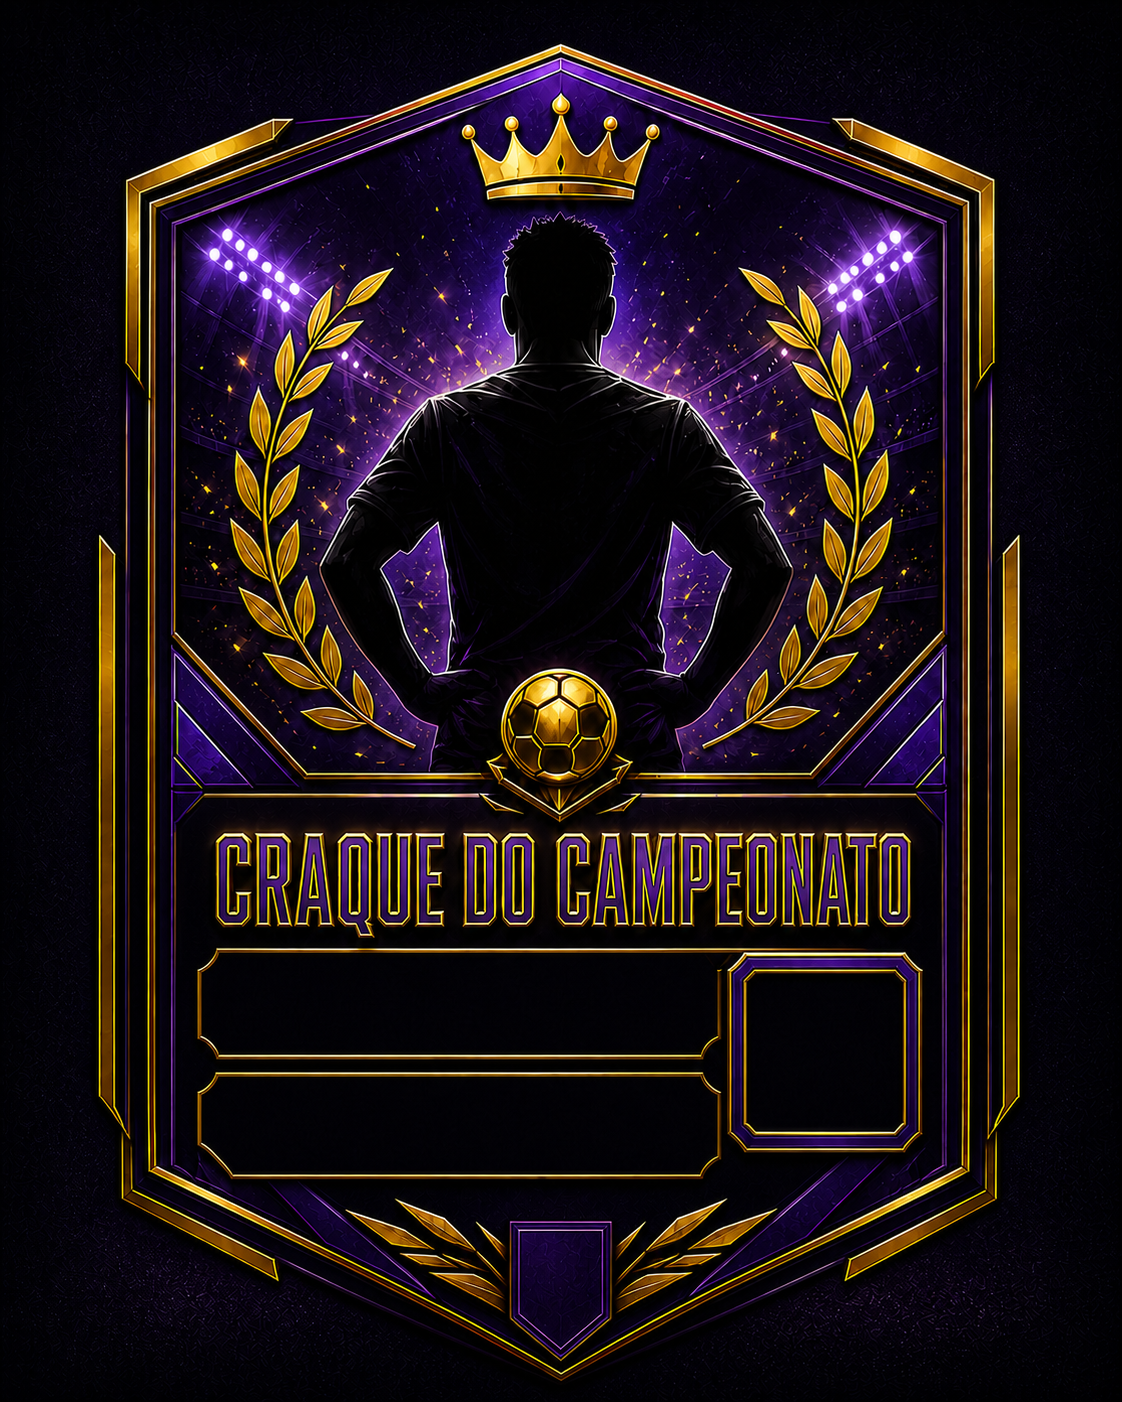
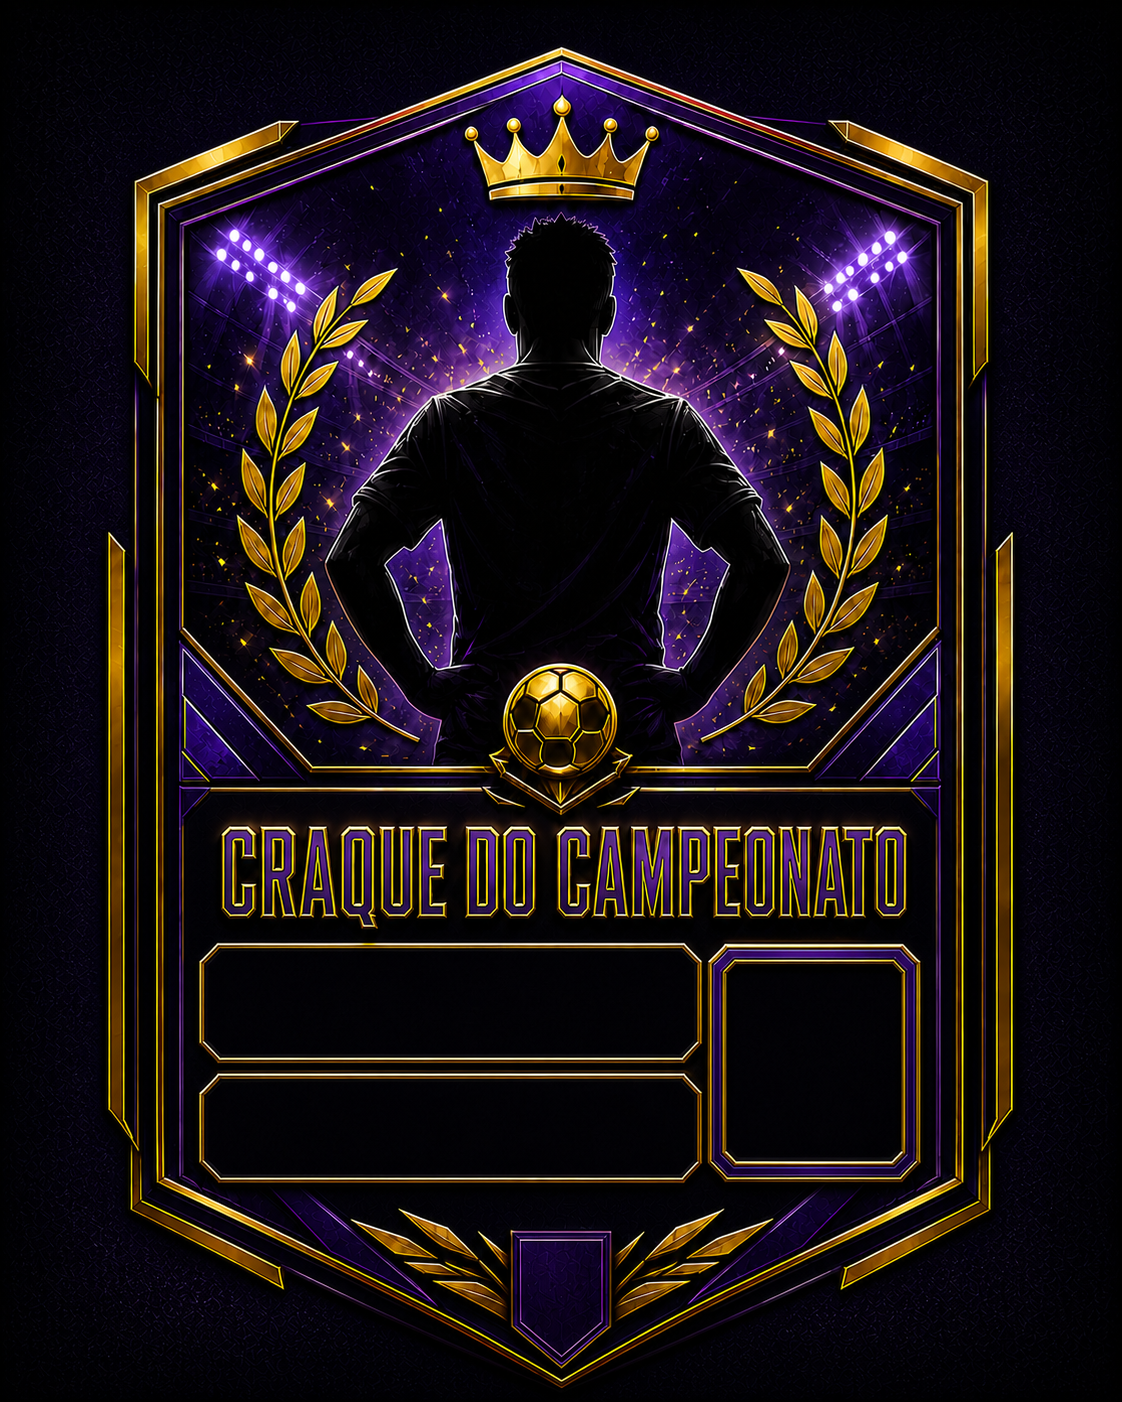
Refine award templates and themed QR codes

Changed region(s): [[0.0624, 0.0307, 0.9358, 1.0]]

diff --git a/components/admin/award-card-studio.tsx b/components/admin/award-card-studio.tsx
@@ -15,6 +15,15 @@ function fitText(ctx: CanvasRenderingContext2D, text: string, maxWidth: number, 
   } while (size > 30 && ctx.measureText(text).width > maxWidth)
 }
 
+function metallicGradient(ctx: CanvasRenderingContext2D, y: number, size: number, top: string, middle: string, bottom: string) {
+  const gradient = ctx.createLinearGradient(0, y - size * 0.55, 0, y + size * 0.55)
+  gradient.addColorStop(0, top)
+  gradient.addColorStop(0.42, middle)
+  gradient.addColorStop(0.58, "#ffffff")
+  gradient.addColorStop(1, bottom)
+  return gradient
+}
+
 export function AwardCardStudio() {
   const [category, setCategory] = useState<AwardKey>("artilheiro")
   const [name, setName] = useState("Indio")
@@ -26,8 +35,8 @@ export function AwardCardStudio() {
   useEffect(() => { setTournamentUrl(`${window.location.origin}/dashboard/tournaments/exemplo`) }, [])
   useEffect(() => {
     if (!tournamentUrl.trim()) return setQrPreview("")
-    void QRCode.toDataURL(tournamentUrl.trim(), { margin: 1, width: 256, color: { dark: "#050505", light: award.qrLight } }).then(setQrPreview)
-  }, [award.qrLight, tournamentUrl])
+    void QRCode.toDataURL(tournamentUrl.trim(), { errorCorrectionLevel: "H", margin: 2, width: 320, color: { dark: award.color, light: "#080808" } }).then(setQrPreview)
+  }, [award.color, tournamentUrl])
 
   function changeCategory(next: AwardKey) {
     setCategory(next)
@@ -50,28 +59,28 @@ export function AwardCardStudio() {
     ctx.textAlign = "center"
     ctx.textBaseline = "middle"
     ctx.lineJoin = "round"
-    ctx.shadowColor = "rgba(0,0,0,.95)"
-    ctx.shadowBlur = canvas.width * 0.012
-    ctx.strokeStyle = "rgba(0,0,0,.85)"
-    ctx.lineWidth = canvas.width * 0.006
-    ctx.fillStyle = "#fff"
-    fitText(ctx, nick, canvas.width * award.textWidth, canvas.width * 0.068)
+    ctx.shadowColor = award.color
+    ctx.shadowBlur = canvas.width * 0.014
+    ctx.strokeStyle = "rgba(0,0,0,.96)"
+    ctx.lineWidth = canvas.width * 0.007
+    const nickSize = canvas.width * 0.068
+    fitText(ctx, nick, canvas.width * award.textWidth, nickSize)
+    ctx.fillStyle = metallicGradient(ctx, canvas.height * award.nickY, nickSize, "#ffffff", "#9aa4b2", "#f8fafc")
     ctx.strokeText(nick, canvas.width * award.nickX, canvas.height * award.nickY)
     ctx.fillText(nick, canvas.width * award.nickX, canvas.height * award.nickY)
-    ctx.fillStyle = award.color
-    fitText(ctx, achievement, canvas.width * award.textWidth, canvas.width * 0.046)
+    const statSize = canvas.width * 0.046
+    fitText(ctx, achievement, canvas.width * award.textWidth, statSize)
+    ctx.fillStyle = metallicGradient(ctx, canvas.height * award.statY, statSize, award.highlight, "#ffffff", award.color)
     ctx.strokeText(achievement, canvas.width * award.statX, canvas.height * award.statY)
     ctx.fillText(achievement, canvas.width * award.statX, canvas.height * award.statY)
     if (tournamentUrl.trim()) {
       const qr = new Image()
-      qr.src = await QRCode.toDataURL(tournamentUrl.trim(), { margin: 1, width: 320, color: { dark: "#050505", light: award.qrLight } })
+      qr.src = await QRCode.toDataURL(tournamentUrl.trim(), { errorCorrectionLevel: "H", margin: 2, width: 384, color: { dark: award.color, light: "#080808" } })
       await qr.decode()
       const size = canvas.width * award.qrSize
       const x = canvas.width * award.qrX
       const y = canvas.height * award.qrY
       ctx.shadowBlur = 0
-      ctx.fillStyle = award.color
-      ctx.fillRect(x - 5, y - 5, size + 10, size + 10)
       ctx.drawImage(qr, x, y, size, size)
     }
     const link = document.createElement("a")
@@ -101,9 +110,9 @@ export function AwardCardStudio() {
         <div className="mb-2 flex items-center justify-between"><span className="text-[10px] font-black uppercase tracking-[0.16em] text-gray-500">Prévia real</span><span className="flex items-center gap-1 text-[10px] text-gray-600"><ExternalLink className="h-3 w-3" />4:5</span></div>
         <div className="relative mx-auto aspect-[4/5] w-full max-w-[440px] overflow-hidden rounded-2xl bg-black shadow-2xl ring-1 ring-white/10">
           <img src={award.image} alt={`Template ${award.title}`} className="absolute inset-0 h-full w-full object-cover" />
-          <p className="absolute w-[52%] -translate-x-1/2 -translate-y-1/2 truncate text-center text-[clamp(26px,4.5vw,39px)] leading-none text-white [font-family:'Bebas_Neue',Impact,sans-serif] [-webkit-text-stroke:1px_rgba(0,0,0,.7)] drop-shadow-[0_3px_3px_rgba(0,0,0,1)]" style={{ left: `${award.nickX * 100}%`, top: `${award.nickY * 100}%` }}>{name || "Jogador"}</p>
-          <p className="absolute w-[52%] -translate-x-1/2 -translate-y-1/2 truncate text-center text-[clamp(17px,3vw,25px)] leading-none [font-family:'Bebas_Neue',Impact,sans-serif] [-webkit-text-stroke:1px_rgba(0,0,0,.7)] drop-shadow-[0_3px_3px_rgba(0,0,0,1)]" style={{ color: award.color, left: `${award.statX * 100}%`, top: `${award.statY * 100}%` }}>{value || "0"}</p>
-          {qrPreview && <span className="absolute block p-[2px]" style={{ backgroundColor: award.color, left: `${award.qrX * 100}%`, top: `${award.qrY * 100}%`, width: `${award.qrSize * 100}%`, height: `${award.qrSize * 80}%` }}><img src={qrPreview} alt="QR Code do campeonato" className="h-full w-full" /></span>}
+          <p className="absolute w-[52%] -translate-x-1/2 -translate-y-1/2 truncate bg-clip-text text-center text-[clamp(26px,4.5vw,39px)] leading-none text-transparent [font-family:'Bebas_Neue',Impact,sans-serif] [-webkit-text-stroke:1px_rgba(0,0,0,.9)]" style={{ backgroundImage: "linear-gradient(180deg,#fff 0%,#9aa4b2 44%,#fff 58%,#cbd5e1 100%)", filter: `drop-shadow(0 0 5px ${award.color}99) drop-shadow(0 3px 2px #000)`, left: `${award.nickX * 100}%`, top: `${award.nickY * 100}%` }}>{name || "Jogador"}</p>
+          <p className="absolute w-[52%] -translate-x-1/2 -translate-y-1/2 truncate bg-clip-text text-center text-[clamp(17px,3vw,25px)] leading-none text-transparent [font-family:'Bebas_Neue',Impact,sans-serif] [-webkit-text-stroke:1px_rgba(0,0,0,.9)]" style={{ backgroundImage: `linear-gradient(180deg,${award.highlight} 0%,#fff 48%,${award.color} 100%)`, filter: `drop-shadow(0 0 5px ${award.color}aa) drop-shadow(0 3px 2px #000)`, left: `${award.statX * 100}%`, top: `${award.statY * 100}%` }}>{value || "0"}</p>
+          {qrPreview && <span className="absolute block aspect-square overflow-hidden" style={{ left: `${award.qrX * 100}%`, top: `${award.qrY * 100}%`, width: `${award.qrSize * 100}%` }}><img src={qrPreview} alt="QR Code do campeonato" className="h-full w-full" /></span>}
         </div>
       </div>
     </div>

diff --git a/app/dashboard/tournaments/[id]/ea-stats-view.tsx b/app/dashboard/tournaments/[id]/ea-stats-view.tsx
@@ -36,30 +36,38 @@ async function downloadAwardPng(title: string, subtitle: string, player: Tournam
       let size = initialSize
       do { outputContext.font = `400 ${size}px "Bebas Neue", Impact, sans-serif`; size -= 2 } while (size > 30 && outputContext.measureText(text).width > maxWidth)
     }
+    const metallicGradient = (y: number, size: number, top: string, middle: string, bottom: string) => {
+      const gradient = outputContext.createLinearGradient(0, y - size * 0.55, 0, y + size * 0.55)
+      gradient.addColorStop(0, top)
+      gradient.addColorStop(0.42, middle)
+      gradient.addColorStop(0.58, "#ffffff")
+      gradient.addColorStop(1, bottom)
+      return gradient
+    }
     outputContext.textAlign = "center"
     outputContext.textBaseline = "middle"
     outputContext.lineJoin = "round"
-    outputContext.shadowColor = "rgba(0,0,0,.95)"
-    outputContext.shadowBlur = output.width * 0.012
-    outputContext.strokeStyle = "rgba(0,0,0,.85)"
-    outputContext.lineWidth = output.width * 0.006
-    outputContext.fillStyle = "#fff"
-    fit(player.playerName, output.width * template.textWidth, output.width * 0.068)
+    outputContext.shadowColor = template.color
+    outputContext.shadowBlur = output.width * 0.014
+    outputContext.strokeStyle = "rgba(0,0,0,.96)"
+    outputContext.lineWidth = output.width * 0.007
+    const nickSize = output.width * 0.068
+    fit(player.playerName, output.width * template.textWidth, nickSize)
+    outputContext.fillStyle = metallicGradient(output.height * template.nickY, nickSize, "#ffffff", "#9aa4b2", "#f8fafc")
     outputContext.strokeText(player.playerName, output.width * template.nickX, output.height * template.nickY)
     outputContext.fillText(player.playerName, output.width * template.nickX, output.height * template.nickY)
-    outputContext.fillStyle = template.color
-    fit(value.toUpperCase(), output.width * template.textWidth, output.width * 0.046)
+    const statSize = output.width * 0.046
+    fit(value.toUpperCase(), output.width * template.textWidth, statSize)
+    outputContext.fillStyle = metallicGradient(output.height * template.statY, statSize, template.highlight, "#ffffff", template.color)
     outputContext.strokeText(value.toUpperCase(), output.width * template.statX, output.height * template.statY)
     outputContext.fillText(value.toUpperCase(), output.width * template.statX, output.height * template.statY)
     const qr = new Image()
-    qr.src = await QRCode.toDataURL(`${window.location.origin}/dashboard/tournaments/${tournamentId}`, { margin: 1, width: 320, color: { dark: "#050505", light: template.qrLight } })
+    qr.src = await QRCode.toDataURL(`${window.location.origin}/dashboard/tournaments/${tournamentId}`, { errorCorrectionLevel: "H", margin: 2, width: 384, color: { dark: template.color, light: "#080808" } })
     await qr.decode()
     const qrSize = output.width * template.qrSize
     const qrX = output.width * template.qrX
     const qrY = output.height * template.qrY
     outputContext.shadowBlur = 0
-    outputContext.fillStyle = template.color
-    outputContext.fillRect(qrX - 5, qrY - 5, qrSize + 10, qrSize + 10)
     outputContext.drawImage(qr, qrX, qrY, qrSize, qrSize)
     const download = document.createElement("a")
     download.download = `${title}-${player.playerName}`.normalize("NFD").replace(/[\u0300-\u036f]/g, "").replace(/[^a-z0-9]+/gi, "-").toLowerCase() + ".png"

diff --git a/lib/award-card-config.ts b/lib/award-card-config.ts
@@ -1,10 +1,10 @@
 export const AWARD_CARD_CONFIG = {
-  artilheiro: { title: "ARTILHEIRO", value: "12 GOLS", image: "/images/awards/artilheiro-template.png", color: "#ffbd35", qrLight: "#ffe09a", nickX: 0.42, nickY: 0.73, statX: 0.42, statY: 0.80, qrX: 0.66, qrY: 0.71, qrSize: 0.13, textWidth: 0.43 },
-  garcom: { title: "GARÇOM", value: "9 ASSISTÊNCIAS", image: "/images/awards/garcom-template.png", color: "#38bdf8", qrLight: "#a9e4ff", nickX: 0.42, nickY: 0.735, statX: 0.42, statY: 0.795, qrX: 0.66, qrY: 0.71, qrSize: 0.13, textWidth: 0.41 },
-  craque: { title: "CRAQUE DO CAMPEONATO", value: "NOTA 9,2", image: "/images/awards/craque-template.png", color: "#f4c542", qrLight: "#f3dd91", nickX: 0.42, nickY: 0.715, statX: 0.42, statY: 0.795, qrX: 0.66, qrY: 0.71, qrSize: 0.13, textWidth: 0.42 },
-  maestro: { title: "MAESTRO", value: "184 PASSES CERTOS", image: "/images/awards/maestro-template.png", color: "#2dd4bf", qrLight: "#a2f3e8", nickX: 0.42, nickY: 0.755, statX: 0.42, statY: 0.84, qrX: 0.66, qrY: 0.71, qrSize: 0.13, textWidth: 0.42 },
-  xerife: { title: "XERIFE", value: "31 DESARMES", image: "/images/awards/xerife-template.png", color: "#e2e8f0", qrLight: "#dce3ea", nickX: 0.42, nickY: 0.705, statX: 0.42, statY: 0.80, qrX: 0.66, qrY: 0.71, qrSize: 0.13, textWidth: 0.48 },
-  muralha: { title: "MURALHA", value: "27 DEFESAS", image: "/images/awards/muralha-template.png", color: "#ef4444", qrLight: "#ffaaaa", nickX: 0.42, nickY: 0.715, statX: 0.42, statY: 0.79, qrX: 0.66, qrY: 0.71, qrSize: 0.13, textWidth: 0.43 },
+  artilheiro: { title: "ARTILHEIRO", value: "12 GOLS", image: "/images/awards/artilheiro-template.png?v=4", color: "#ffbd35", highlight: "#fff0b0", nickX: 0.41, nickY: 0.73, statX: 0.41, statY: 0.80, qrX: 0.655, qrY: 0.714, qrSize: 0.132, textWidth: 0.43 },
+  garcom: { title: "GARÇOM", value: "9 ASSISTÊNCIAS", image: "/images/awards/garcom-template.png?v=4", color: "#38bdf8", highlight: "#d8f5ff", nickX: 0.41, nickY: 0.735, statX: 0.41, statY: 0.795, qrX: 0.655, qrY: 0.708, qrSize: 0.132, textWidth: 0.41 },
+  craque: { title: "CRAQUE DO CAMPEONATO", value: "NOTA 9,2", image: "/images/awards/craque-template.png?v=4", color: "#f4c542", highlight: "#fff2a8", nickX: 0.40, nickY: 0.714, statX: 0.40, statY: 0.803, qrX: 0.655, qrY: 0.684, qrSize: 0.132, textWidth: 0.42 },
+  maestro: { title: "MAESTRO", value: "184 PASSES CERTOS", image: "/images/awards/maestro-template.png?v=4", color: "#2dd4bf", highlight: "#c9fff7", nickX: 0.42, nickY: 0.695, statX: 0.42, statY: 0.776, qrX: 0.652, qrY: 0.667, qrSize: 0.132, textWidth: 0.42 },
+  xerife: { title: "XERIFE", value: "31 DESARMES", image: "/images/awards/xerife-template.png?v=4", color: "#e2e8f0", highlight: "#ffffff", nickX: 0.41, nickY: 0.708, statX: 0.41, statY: 0.79, qrX: 0.652, qrY: 0.686, qrSize: 0.132, textWidth: 0.48 },
+  muralha: { title: "MURALHA", value: "27 DEFESAS", image: "/images/awards/muralha-template.png?v=4", color: "#ef4444", highlight: "#ffc2c2", nickX: 0.41, nickY: 0.715, statX: 0.41, statY: 0.79, qrX: 0.652, qrY: 0.686, qrSize: 0.132, textWidth: 0.43 },
 } as const
 
 export type AwardCardKey = keyof typeof AWARD_CARD_CONFIG
